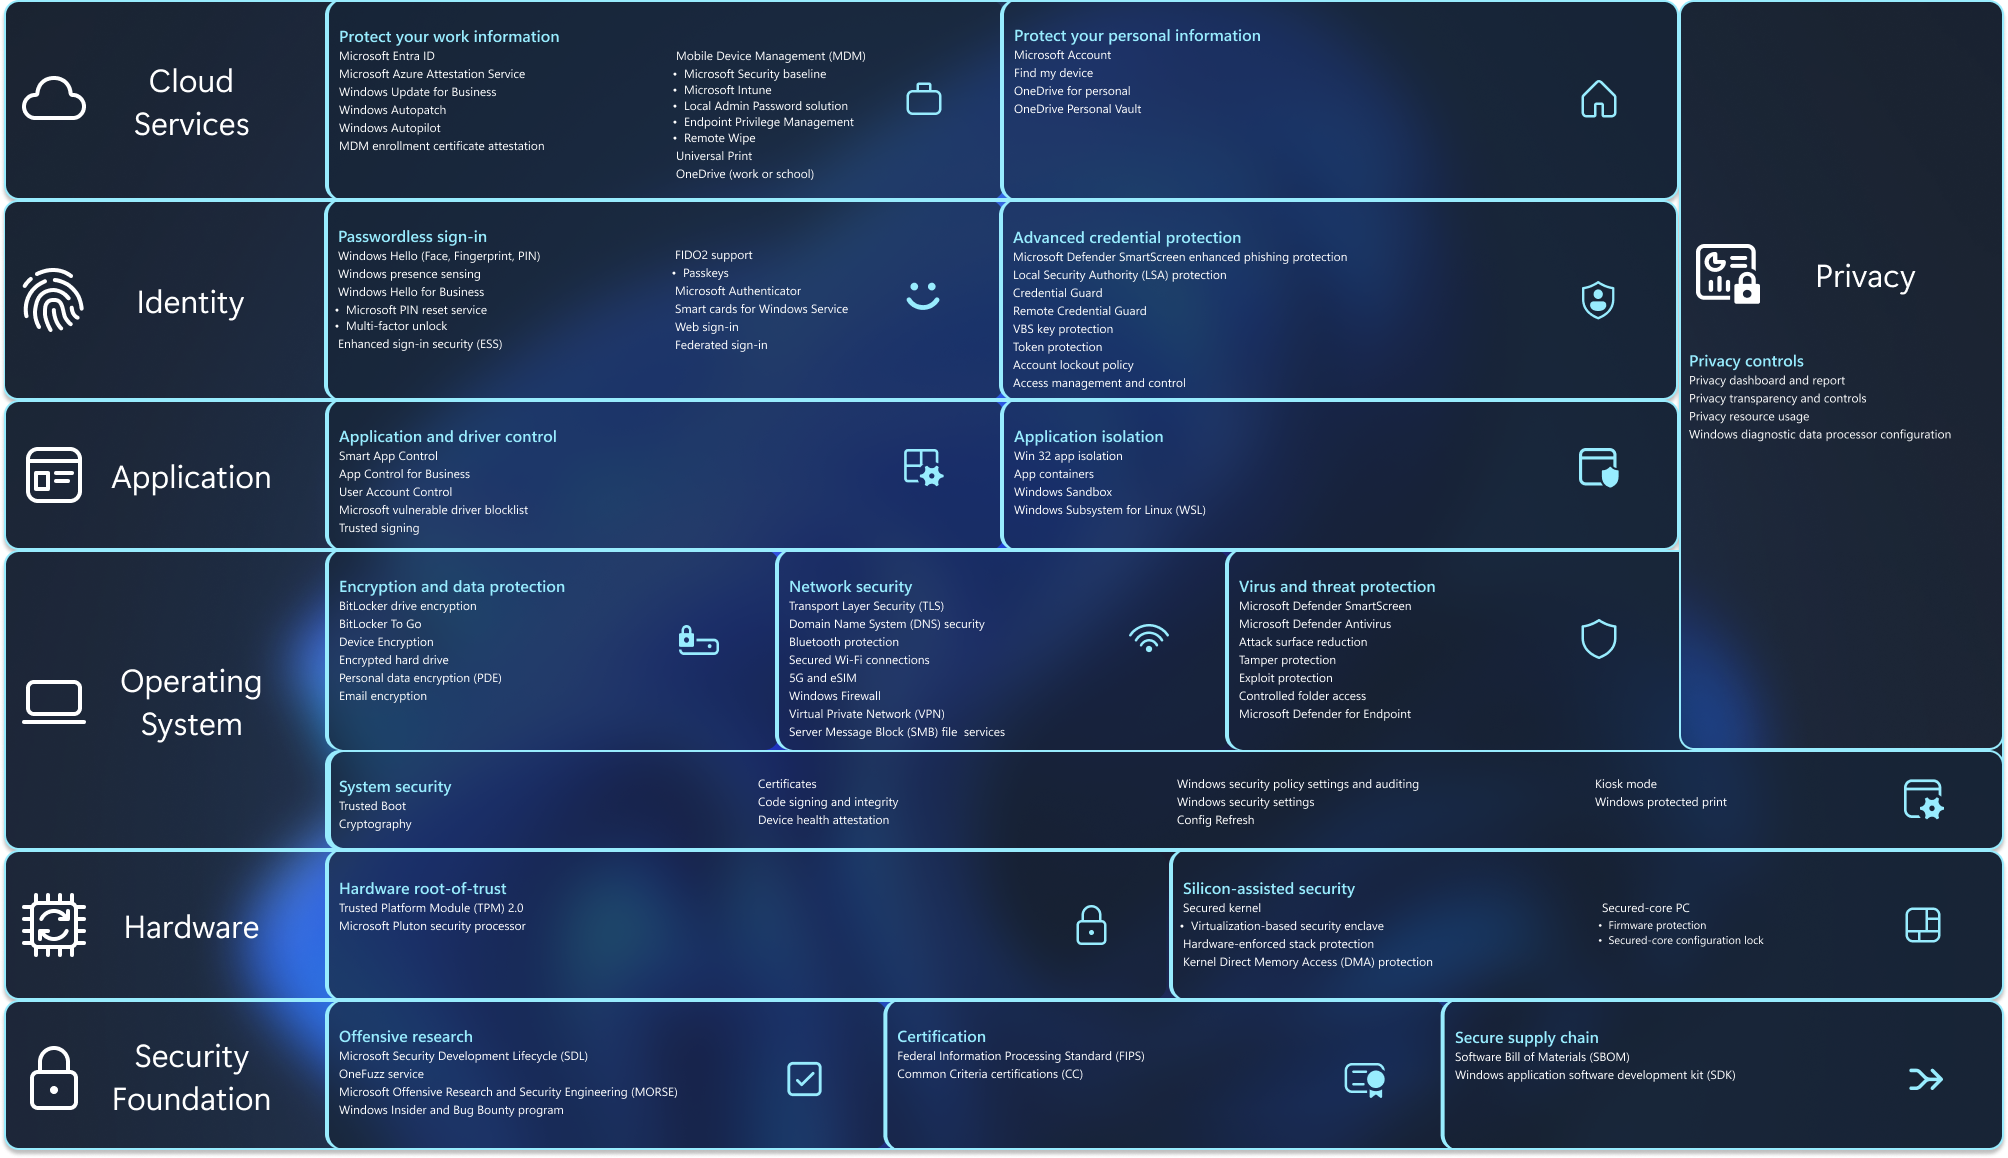
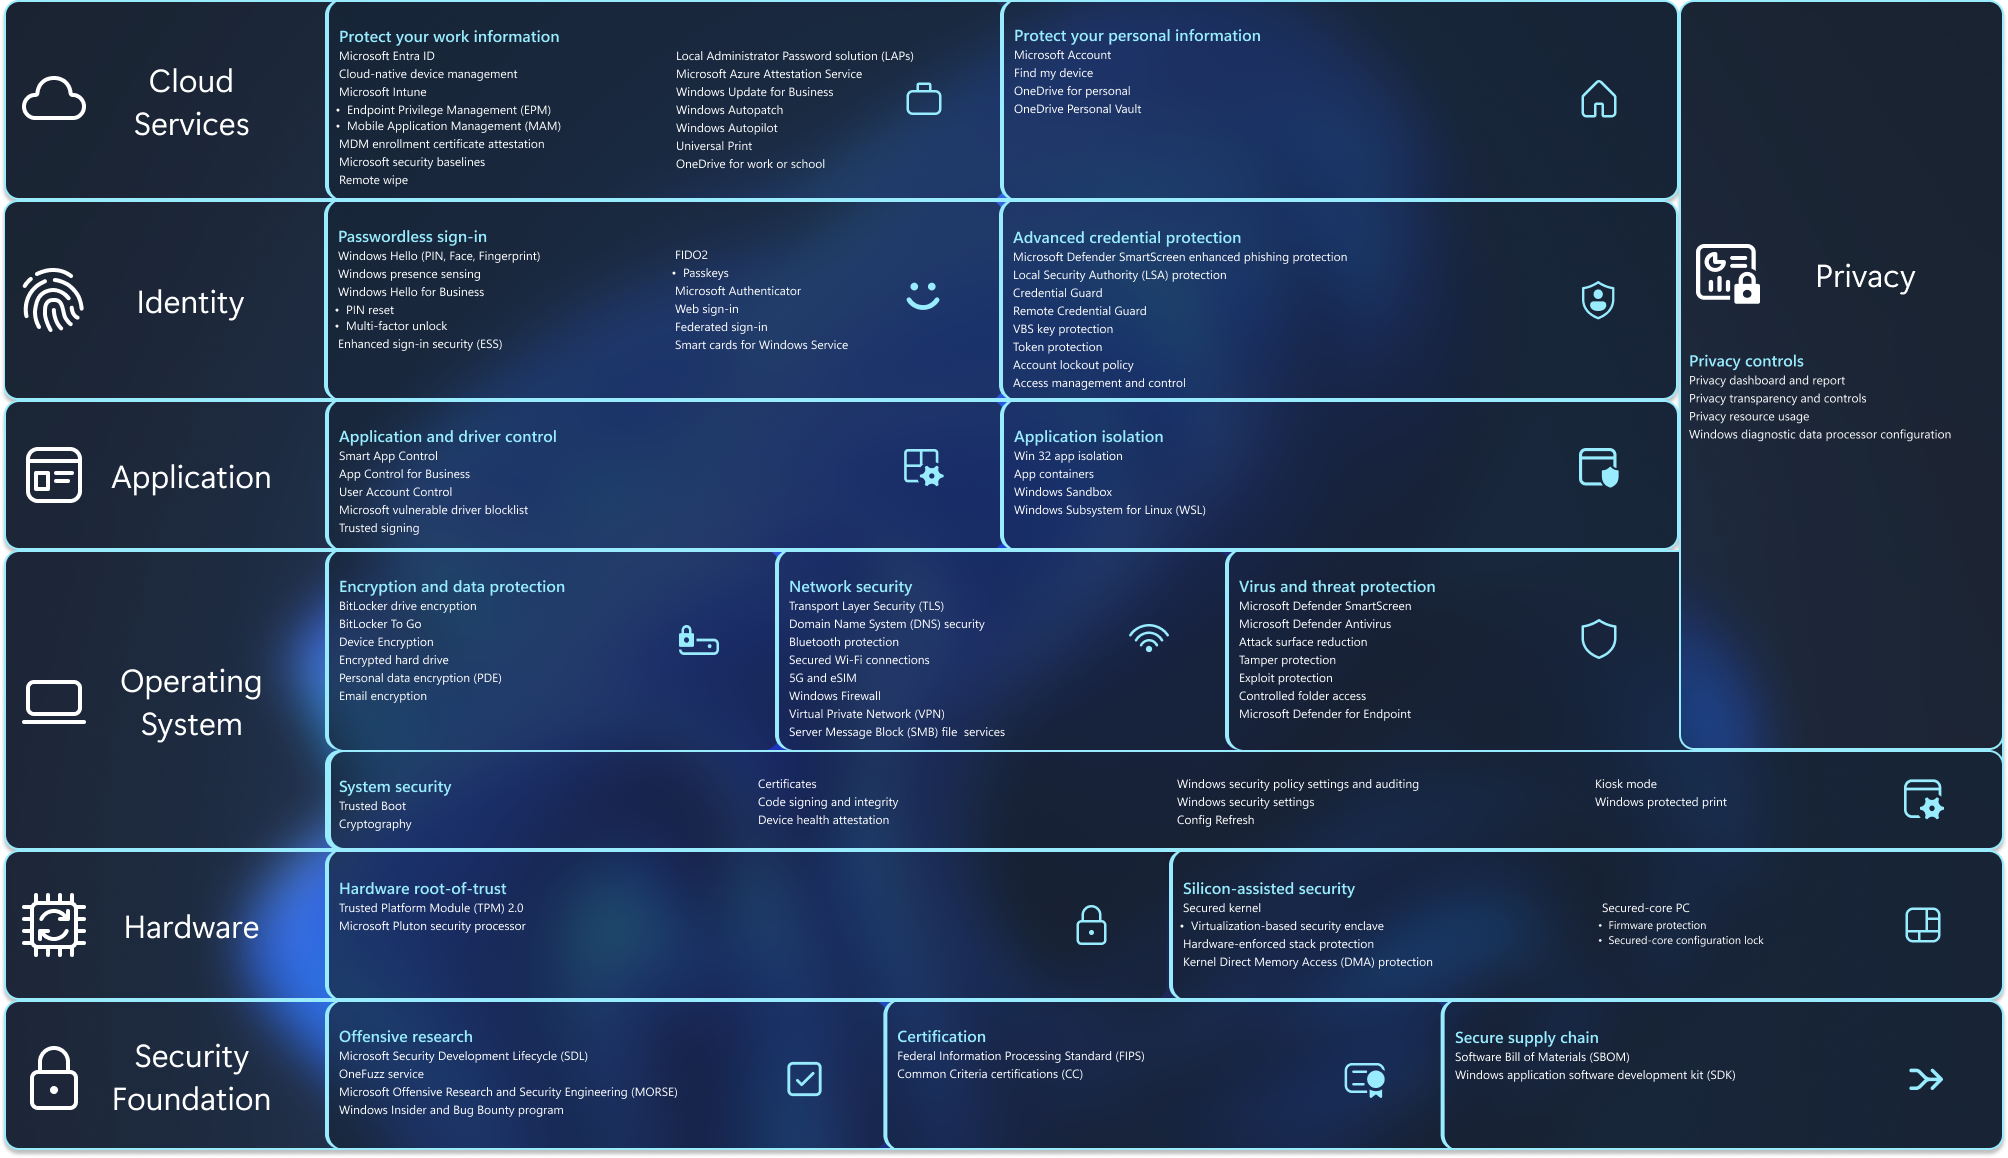
updates

diff --git a/windows/security/book/identity-protection-passwordless-sign-in.md b/windows/security/book/identity-protection-passwordless-sign-in.md
@@ -81,6 +81,16 @@ Organizations with hybrid scenarios can eliminate the need for on-premises domai
 
 - [Windows Hello for Business overview][LINK-2]
 
+### PIN reset
+
+The Microsoft PIN Reset Service allows users to reset their forgotten Windows Hello PINs without requiring re-enrollment. After registering the service in the Microsoft Entra ID tenant, the capability must be enabled on the Windwos devices using group policy or a device management solution like Microsoft Intune.
+
+Users can initiate a PIN reset from the Windows lock screen or from the sign-in options in Settings. The process involves authenticating and completing multifactor authentication to reset the PIN.
+
+:::image type="icon" source="images/learn-more.svg" border="false"::: **Learn more:**
+
+- [PIN reset][LINK-15]
+
 ### Windows Hello for Business multi-factor unlock
 
 For organizations that need an extra layer of sign-in security, multi-factor unlock enables IT admins to configure Windows by requiring a combination of two unique trusted signals to sign in. Trusted signal examples include a PIN or biometric data (face or fingerprint) combined with either a PIN, Bluetooth, IP configuration, or Wi-Fi.
@@ -200,3 +210,4 @@ When a password is used to sign in to a domain account, Windows uses the Kerbero
 [LINK-12]: /windows/security/identity-protection/smart-cards/smart-card-windows-smart-card-technical-reference
 [LINK-13]: /windows/security/identity-protection/web-sign-in
 [LINK-14]: /education/windows/federated-sign-in
+[LINK-15]: /windows/security/identity-protection/hello-for-business/pin-reset
